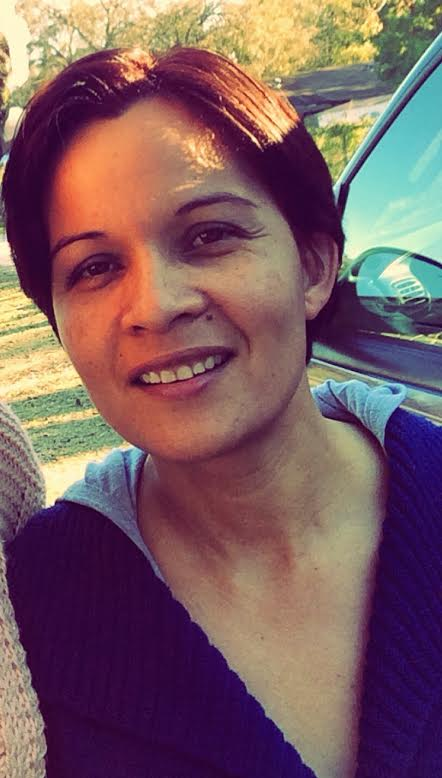
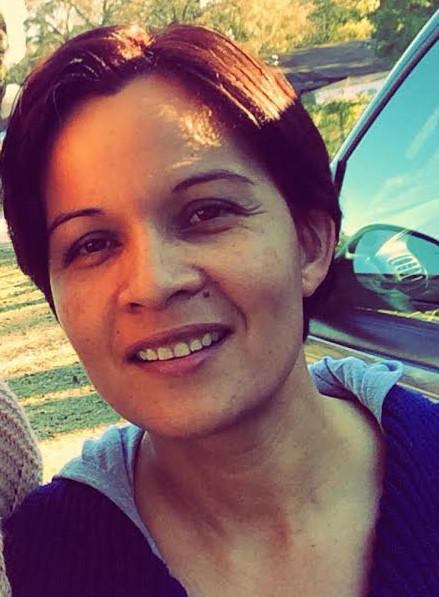
frame mission photo. facebook link in contact_us. staff image swap

diff --git a/dev/our_story.html b/dev/our_story.html
@@ -3,10 +3,10 @@ layout: default
 ---
 
 <div class="container" style="color:white; font-size:1.2em">
-  <div class="row text-center" style="margin-top:5em">
+  <div class="row text-center" style="margin-top:3em">
     <div class="col-md-8 col-md-offset-2">
       <h2 style="margin-bottom:2em">Our Story</h2>
-      <img src="/assets/img/logos/passports.jpg" style="width:20%"/>
+      <img src="/assets/img/kids/our_story.png" style="width:60%"/>
     </div>
   </div>
   <div class="row">
@@ -15,7 +15,7 @@ layout: default
       For the past two decades, we have been on an amazing journey, one that has taken us to the remote regions of impoverished countries, to operating rooms as far away as Nepal and as close as Seattle, to board rooms and living rooms and the dinner tables of families who, like us, have one common goal – to see their children live healthy, happy and fulfilling lives.
       </p>
       <p>
-      Our first steps on this journey seemed simple enough – taking in a sick child from abroad for a few months while they received medical care in the U. S., or accompanying a team of surgeons to a third world country to perform pediatric surgery.  We had no idea that those first steps would eventually lead us to where we are today, combining those experiences and our mutual passions to begin a new adventure: an organization committed to helping children connect with the health care they need. 
+      Our first steps on this journey seemed simple enough – taking in a sick child from abroad for a few months while they received medical care in the U. S., or accompanying a team of surgeons to a third world country to perform pediatric surgery.  We had no idea that those first steps would eventually lead us to where we are today, combining those experiences and our mutual passions to begin a new adventure: an organization committed to helping children connect with the health care they need.
       </p>
       <p>
       Our attitude and passion are to treat the “whole” child, providing them with an academic education as well as educating them on their specific medical condition and self-care. We also follow each child as they grow and mature whether they need more medical care or not, ensuring they have access to any follow-up procedures. It is a privilege to watch these children mature, advance in their community, become parents, have careers and give back.  It is an opportunity that motivates our passion to continue.

diff --git a/dev/contact_us.html b/dev/contact_us.html
@@ -3,9 +3,12 @@ layout: default
 ---
 
 <div class="container" style="color:white; font-size:1.2em">
-  <div class="row" style="margin-top:4.5em">
+  <div class="row" style="margin-top:3em">
     <div class="col-md-3 col-md-offset-5">
       <h2> Contact Us </h2>
+      <div style="margin-bottom:1em">
+        <img src="/assets/img/kids/nepal.png" style="width:80%"/>
+      </div>
       Child’s Passport to Health<br/>
       PO Box 446<br/>
       Bothell, WA 98041<br/>
@@ -14,7 +17,10 @@ layout: default
       <br/>
       <a href="http://achildspassporttohealth.org">http://achildspassporttohealth.org</a><br/>
       <br/>
-      Find us on Facebook
+      <div>
+      Find us on Facebook:
+      </div>
+      <a href="https://www.facebook.com/childspassporttohealth"><img src="/assets/img/logos/facebook-logo.png"/></a>
     </div>
   </div>
 </div>

diff --git a/_includes/new_gallery.html b/_includes/new_gallery.html
@@ -9,7 +9,7 @@
       {% cycle 'add_rows': '<div class="row" style="margin-top:1em; margin-bottom:1em">', nil, nil %}
       <div class="col-md-4">
         <a href="/assets/img/{{ include.gallery_name }}/{{ image.name }}">
-          <img src="/assets/img/{{ include.gallery_name }}/{{ image.name }}" class="{{ include.imgclass }}" style="width:250px"/>
+          <img src="/assets/img/{{ include.gallery_name }}/{{ image.name }}" class="{{ include.imgclass }}" style="height:300px"/>
         </a>
         {% if image.title %}
           <h3>{{ image.title }}</h3>

diff --git a/dev/our_mission.html b/dev/our_mission.html
@@ -3,10 +3,10 @@ layout: default
 ---
 
 <div class="container" style="color:white; font-size:1.2em">
-  <div class="row text-center" style="margin-top:4.5em">
+  <div class="row text-center" style="margin-top:3em">
     <div class="col-md-8 col-md-offset-2">
       <h2> Our Mission </h2>
-      <img src="/assets/img/our_mission_hugging.jpg" style="width:60%"/>
+      <img src="/assets/img/our_mission_hugging.jpg" style="width:75%" class="instant itxtalt icolorFFFDF4 ishadow40 noshading"/>
     </div>
   </div>
   <div class="row">

diff --git a/dev/our_partners.html b/dev/our_partners.html
@@ -16,7 +16,8 @@ layout: default
       <div style="margin-top:1em; margin-bottom:1em">
       Dr. David Shaw - Orthopedic Surgeon, ONE CHILD AT A TIME and Kausay Wasi Clinic Prosthetics Center.
       </div>
-      <div style="margin-top:3em; margin-bottom:1em">
+      <hr/>
+      <div style="margin-top:2em; margin-bottom:1em">
         <div style="margin-bottom:1em">
           <img src="/assets/img/logos/ninos_logo.jpg" style="width:22%"/>
         </div>
